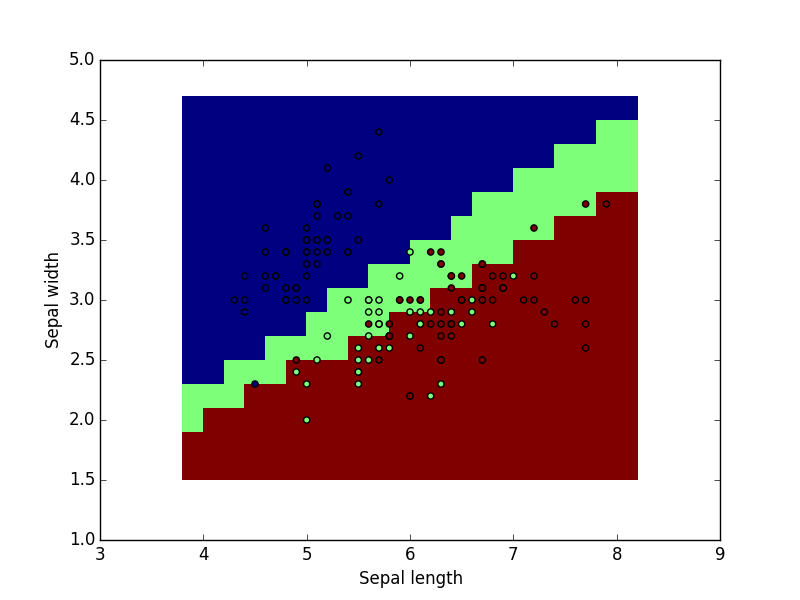
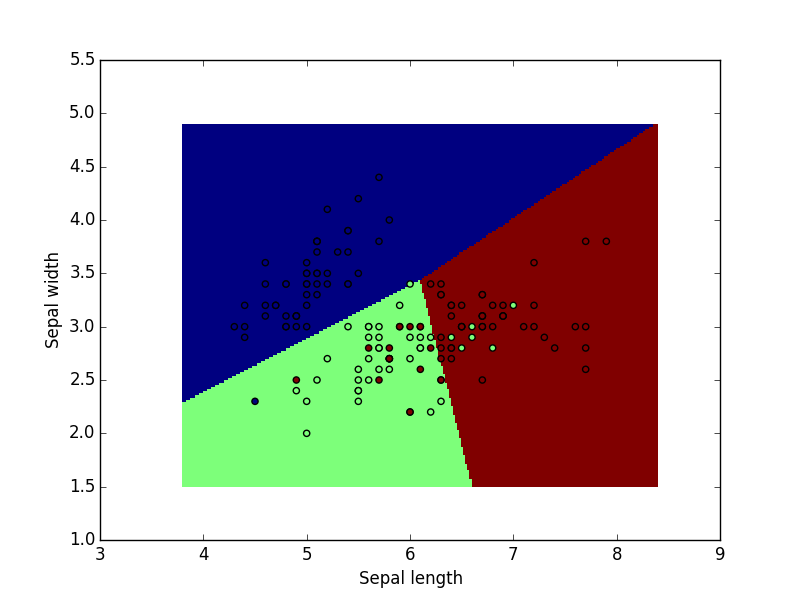
Set intercepter (bias feature) to give better prediction

diff --git a/iris_spark.py b/iris_spark.py
@@ -35,13 +35,14 @@ data = sc.textFile('iris.dat').map(parse_point)
 
 # data = sc.parallelize([
 #     LabeledPoint(0.0, [0.0, 10.0]),
-#     LabeledPoint(1.0, [10.0, 0.0]),
+#     LabeledPoint(1.0, [10.0, 10.0]),
 #     LabeledPoint(2.0, [0.0, 0.0]),
-#     LabeledPoint(2.0, [10.0, 10.0]),
-#     LabeledPoint(2.0, [5.0, 5.0])
+#     LabeledPoint(2.0, [10.0, 0.0]),
+#     LabeledPoint(2.0, [5.0, 5.0]),
+#     LabeledPoint(2.0, [0.0, 5.0])
 # ])
 
-model = LogisticRegressionWithLBFGS.train(data, iterations=100, numClasses=3, corrections=100000, regType='l1')
+model = LogisticRegressionWithLBFGS.train(data, iterations=100, numClasses=3, corrections=100000, regType=None, intercept=True)
 
 labelsAndPreds = data.map(lambda p: (p.label, model.predict(p.features)))
 trainingError = labelsAndPreds.filter(lambda (value, prediction): value != prediction).count() / float(data.count())
@@ -52,7 +53,7 @@ print('Training error = %s' % trainingError)
 X = np.array(data.map(lambda p: p.features).collect())
 Y = np.array(data.map(lambda p: p.label).collect())
 
-MESH_STEP_SIZE = 0.2
+MESH_STEP_SIZE = 0.02
 
 # Plot the decision boundary
 
